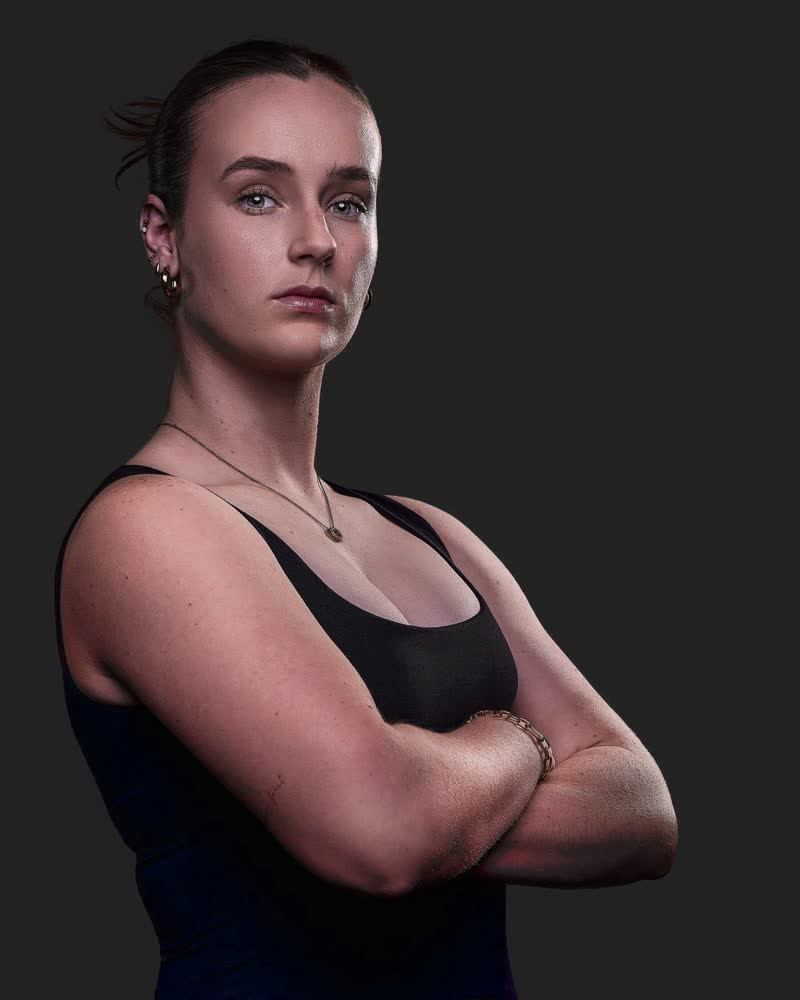
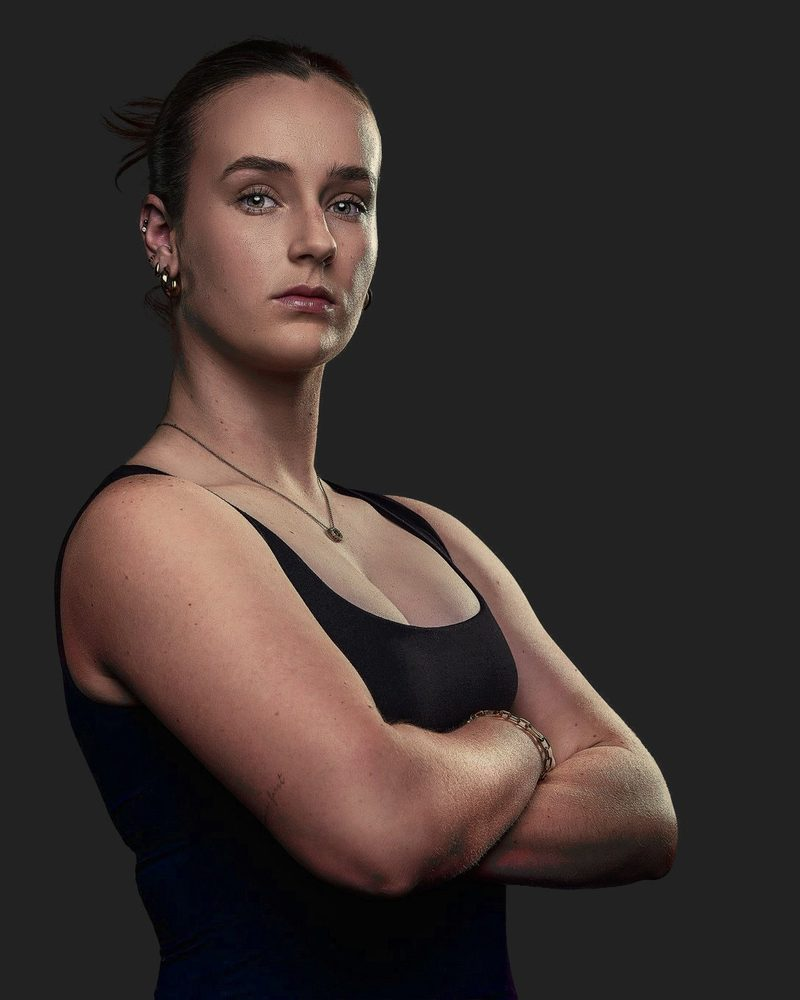
Identity lead: AFL Canberra athlete joins Alyssa and Walker
- Third 4:5 frame: AFL Canberra Media Day 433, shot on white, cut onto
  #222222 in Photoshop, skin matched to Walker, two hairline highlights burned
- Alyssa's skin moved from magenta onto Walker's hue (backdrop untouched)
- Pair becomes a trio, three across at every width; phones show labels only
- 'Same light and same direction' line removed (no longer true)
- Cache v=20261030a on /portraits/

diff --git a/portraits/index.html b/portraits/index.html
@@ -45,7 +45,7 @@
 <link rel="apple-touch-icon" href="/apple-touch-icon.png">
 <link rel="preload" href="/fonts/inter-400.v1.woff2" as="font" type="font/woff2" crossorigin>
 <link rel="preload" href="/fonts/lora-600.v1.woff2" as="font" type="font/woff2" crossorigin>
-<link rel="stylesheet" href="/css/site.css?v=20261019g">
+<link rel="stylesheet" href="/css/site.css?v=20261030a">
 <script type="application/ld+json">
 {
   "@context": "https://schema.org",
@@ -217,17 +217,20 @@
     <p class="label">Identity</p>
     <h1 id="pageh" class="title">Portraits and headshots</h1>
     <p class="lede">One standard for every person in the library.</p>
-    <div class="squad squad--pair">
+    <div class="squad squad--pair squad--trio">
       <figure>
-        <img src="/images/v2/quad-alyssa-4x5-800.jpg" srcset="/images/v2/quad-alyssa-4x5-400.jpg 400w, /images/v2/quad-alyssa-4x5-800.jpg 800w, /images/v2/quad-alyssa-4x5-1092.jpg 1092w" sizes="(min-width: 64em) 27rem, (min-width: 40em) 46vw, 50vw" width="1092" height="1365" alt="Hockey ACT goalkeeper, identity portrait at a three-quarter angle on black" fetchpriority="high" decoding="async">
-        <figcaption class="caption"><strong>Athlete.</strong> Hockey ACT pathway squad, 2026.</figcaption>
+        <img src="/images/v2/quad-alyssa-4x5-800.jpg" srcset="/images/v2/quad-alyssa-4x5-400.jpg 400w, /images/v2/quad-alyssa-4x5-800.jpg 800w, /images/v2/quad-alyssa-4x5-1092.jpg 1092w" sizes="(min-width: 64em) 23rem, (min-width: 40em) 31vw, 33vw" width="1092" height="1365" alt="Hockey ACT goalkeeper, identity portrait at a three-quarter angle on black" fetchpriority="high" decoding="async">
+        <figcaption class="caption"><strong>Athlete.</strong><span class="caption-detail"> Hockey ACT pathway squad, 2026.</span></figcaption>
       </figure>
       <figure>
-        <img src="/images/v2/walker-black-4x5-800.jpg" srcset="/images/v2/walker-black-4x5-480.jpg 480w, /images/v2/walker-black-4x5-800.jpg 800w, /images/v2/walker-black-4x5-1080.jpg 1080w" sizes="(min-width: 64em) 27rem, (min-width: 40em) 46vw, 50vw" width="1080" height="1350" alt="Dr Anthony Walker, open blazer, studio black" fetchpriority="high" decoding="async">
-        <figcaption class="caption"><strong>Leader.</strong> Dr Anthony Walker, Optimised Human Performance.</figcaption>
+        <img src="/images/v2/walker-black-4x5-800.jpg" srcset="/images/v2/walker-black-4x5-480.jpg 480w, /images/v2/walker-black-4x5-800.jpg 800w, /images/v2/walker-black-4x5-1080.jpg 1080w" sizes="(min-width: 64em) 23rem, (min-width: 40em) 31vw, 33vw" width="1080" height="1350" alt="Dr Anthony Walker, open blazer, studio black" fetchpriority="high" decoding="async">
+        <figcaption class="caption"><strong>Leader.</strong><span class="caption-detail"> Dr Anthony Walker, Optimised Human Performance.</span></figcaption>
+      </figure>
+      <figure>
+        <img src="/images/v2/afl-media-day-433-black-4x5-800.jpg" srcset="/images/v2/afl-media-day-433-black-4x5-400.jpg 400w, /images/v2/afl-media-day-433-black-4x5-800.jpg 800w, /images/v2/afl-media-day-433-black-4x5-1092.jpg 1092w" sizes="(min-width: 64em) 23rem, (min-width: 40em) 31vw, 33vw" width="1092" height="1365" alt="AFL Canberra player in a royal blue and red guernsey, arms crossed, on black" fetchpriority="high" decoding="async">
+        <figcaption class="caption"><strong>Athlete.</strong><span class="caption-detail"> AFL Canberra Media Day, 2026.</span></figcaption>
       </figure>
     </div>
-    <p class="caption">The same light and the same direction for every person in the library.</p>
   </div>
 </section>
 

diff --git a/css/site.css b/css/site.css
@@ -549,6 +549,15 @@ cite { font-style: normal; }
 @media (min-width: 81.5em) {
   .squad--pair { grid-template-columns: repeat(2, minmax(0, 1fr)); }
 }
+/* A trio: two athletes from different sports and one leader, three across at every width */
+.squad--trio { grid-template-columns: repeat(3, minmax(0, 1fr)); max-width: 72rem; }
+@media (min-width: 81.5em) {
+  .squad--trio { grid-template-columns: repeat(3, minmax(0, 1fr)); }
+}
+/* On phones the trio is captioned by its labels alone; the alt text carries who each person is */
+@media (max-width: 39.99em) {
+  .squad--trio .caption-detail { display: none; }
+}
 /* On phones and tablets the Identity header joins the ink lead band */
 @media (max-width: 63.99em) {
   .site-header.joins-ink { background: var(--ink-navy); color: var(--cool-paper); border-bottom-color: var(--rule-dark); }
